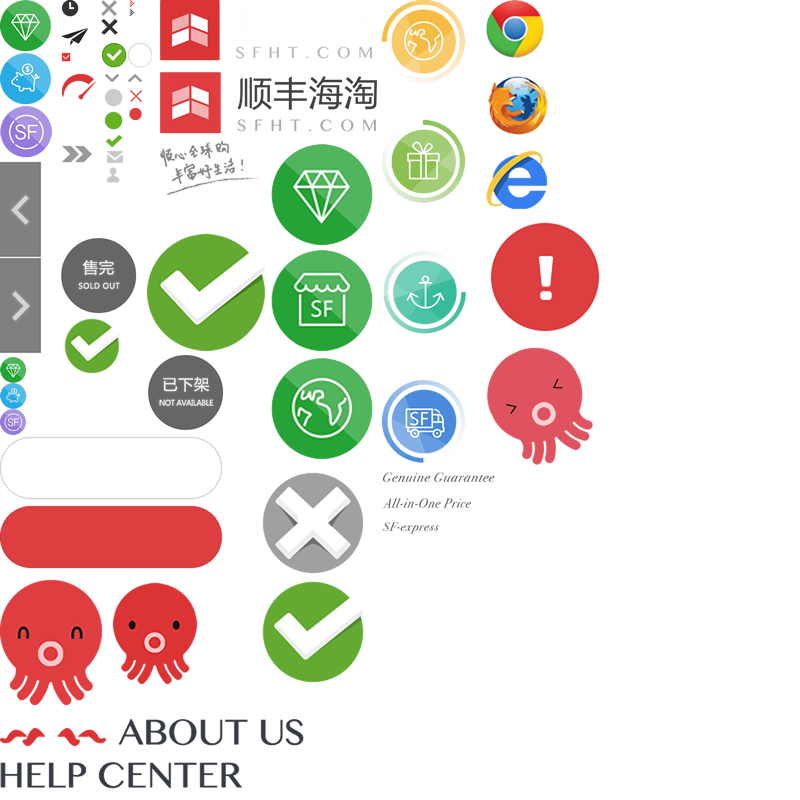
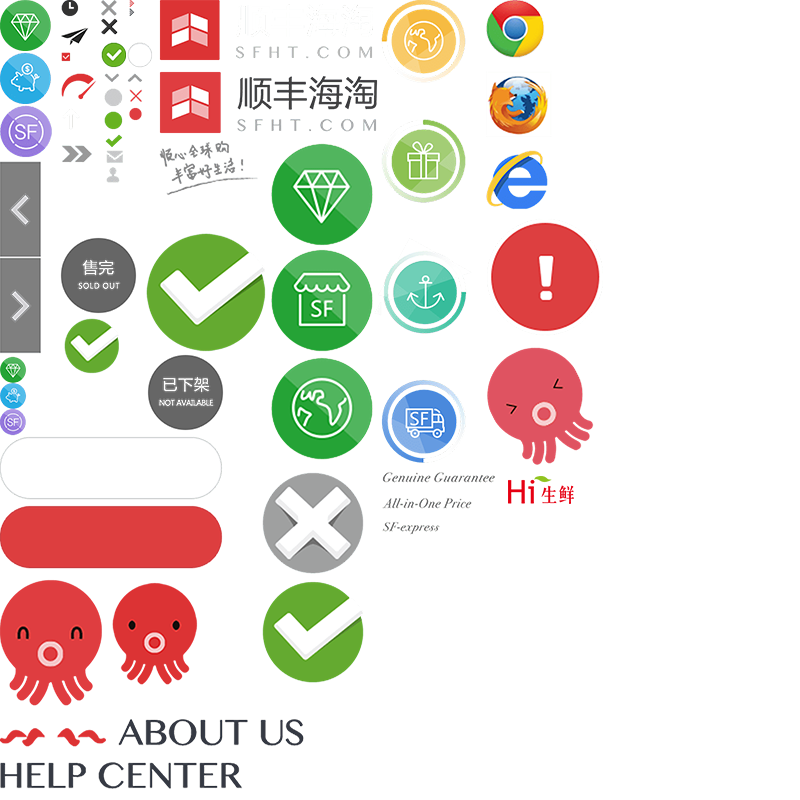
增加图标

diff --git a/app/html/detail.html b/app/html/detail.html
@@ -104,6 +104,7 @@
                 <span class="icon icon25"></span><strong>7</strong>天到
               </div>
               <!--7天到-->
+              <span class="icon icon50">生鲜</span>
             </div>
             <div class="mr1">单价：<strong>¥ 599</strong><span>（含税）</span><del>¥1200</del>
             </div>

diff --git a/app/css/common.css b/app/css/common.css
@@ -426,7 +426,12 @@ img{vertical-align: middle;}
 	height: 13px;
 	background-position: -130px -108px;
 }
-
+.icon50{
+	width: 66px;
+	height: 28px;
+	background-position: -508px -476px;
+	text-indent: -999em;
+}
 /*btn*/
 .btn{
 	display: inline-block;

diff --git a/app/html/common.html b/app/html/common.html
@@ -103,7 +103,7 @@
       <span class="icon icon47"></span>
       <span class="icon icon48"></span>
       <span class="icon icon49"></span>
-
+      <span class="icon icon50">生鲜</span>
 
 
       <h2>btn</h2>

diff --git a/app/css/detail.css b/app/css/detail.css
@@ -183,6 +183,11 @@
 	top: -19px;
 	right: 3px;
 }
+.goods .icon50{
+	position: absolute;
+	top: 27px;
+	right: 3px;
+}
 .goods .u2{
 	position: absolute;
 	top: 0;
